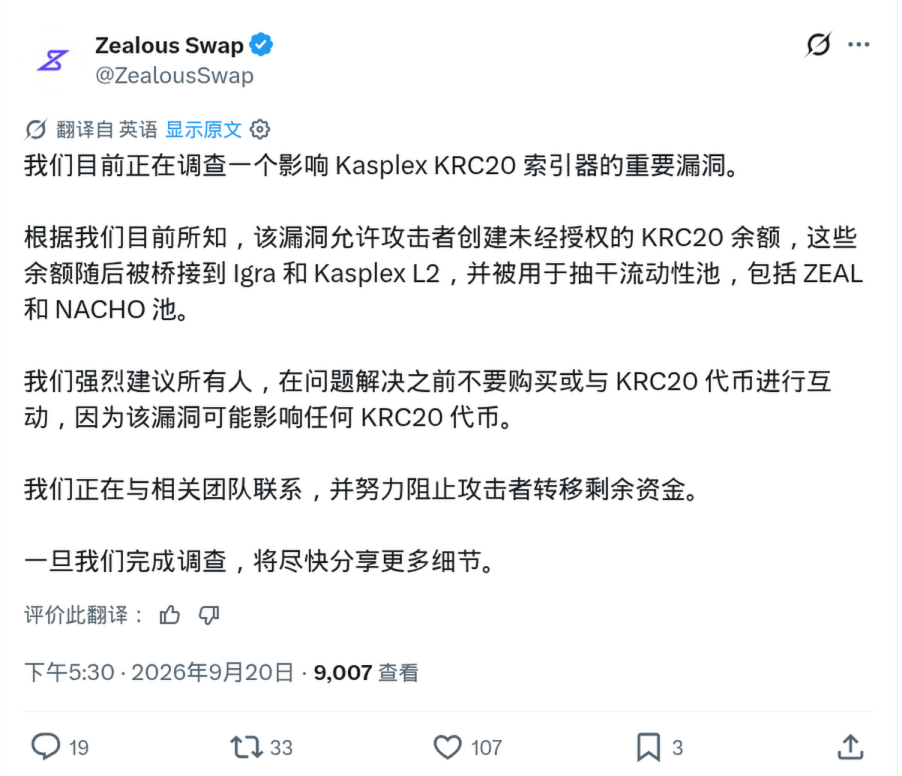
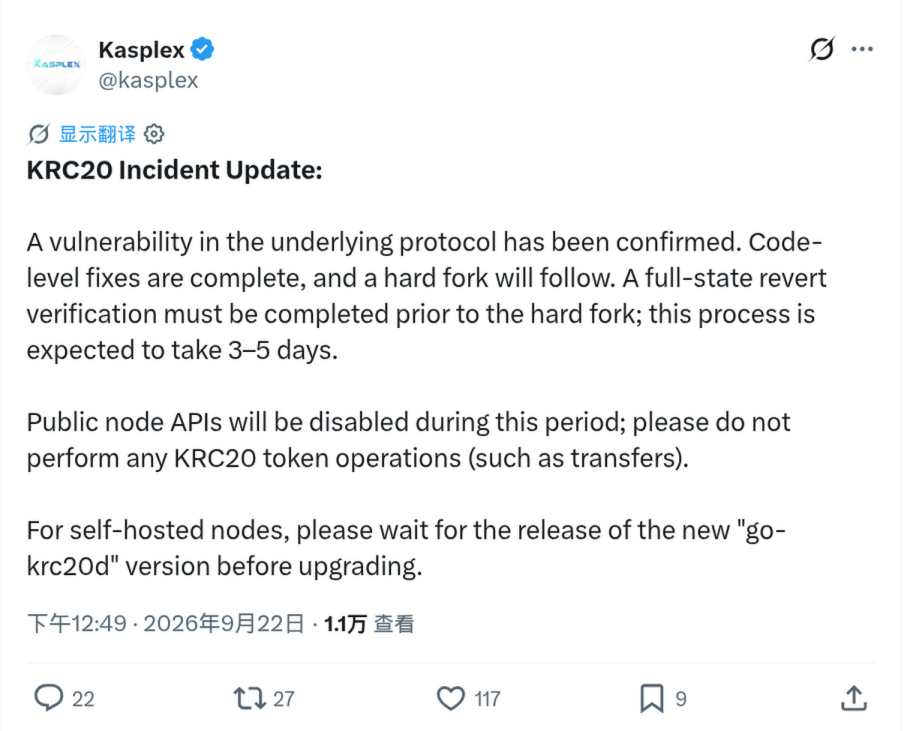
minor update

diff --git a/docs/en/about/README.md b/docs/en/about/README.md
@@ -17,7 +17,7 @@ Registered buykas.com because it looked nice at the time — it has nothing to d
 
 My Twitter: [https://x.com/mvkscin](https://x.com/mvkscin)
 
-Documentation and source code for this site: [https://github.com/kementarion/buykas](https://github.com/kementarion/buykas)
+Documentation and source code for this site: [https://github.com/mvkscin/buykas](https://github.com/mvkscin/buykas)
 
 
 <br />

diff --git a/docs/about/README.md b/docs/about/README.md
@@ -15,7 +15,7 @@ heroText: " "
 
 我的推特：[https://x.com/mvkscin](https://x.com/mvkscin)
 
-本站文档及源代码：[https://github.com/kementarion/buykas](https://github.com/kementarion/buykas)
+本站文档及源代码：[https://github.com/mvkscin/buykas](https://github.com/mvkscin/buykas)
 
 <br />
 
